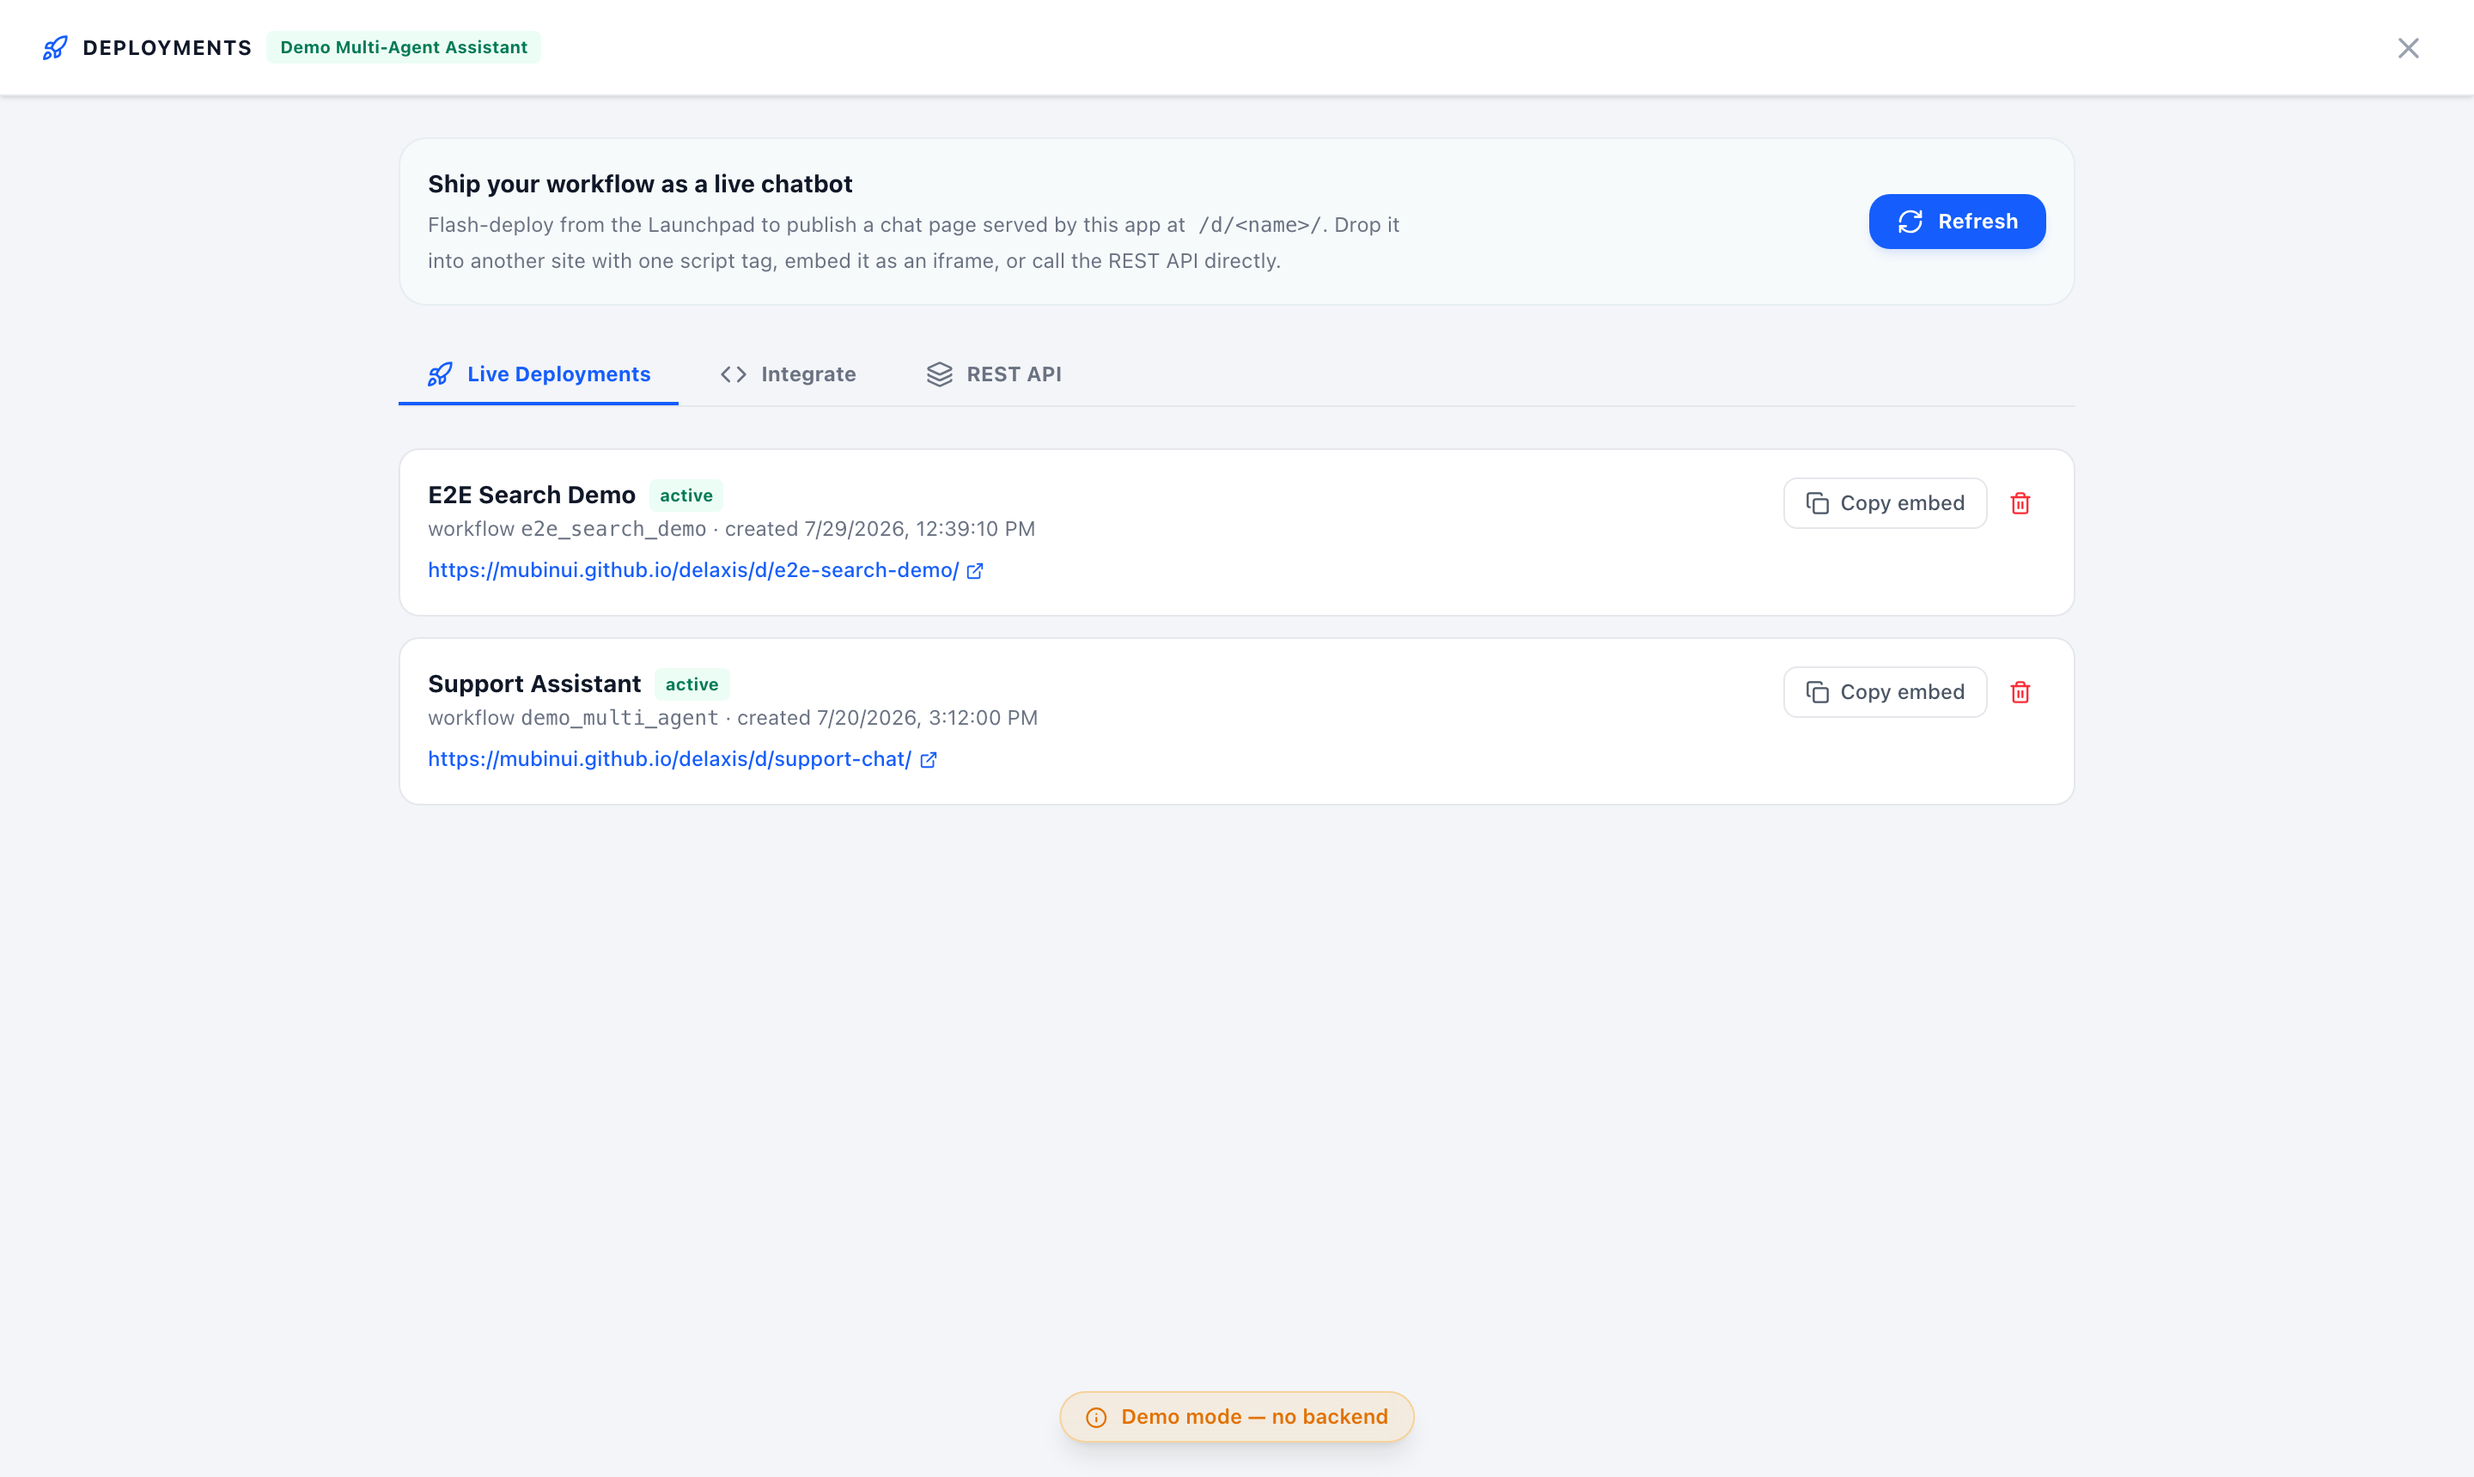
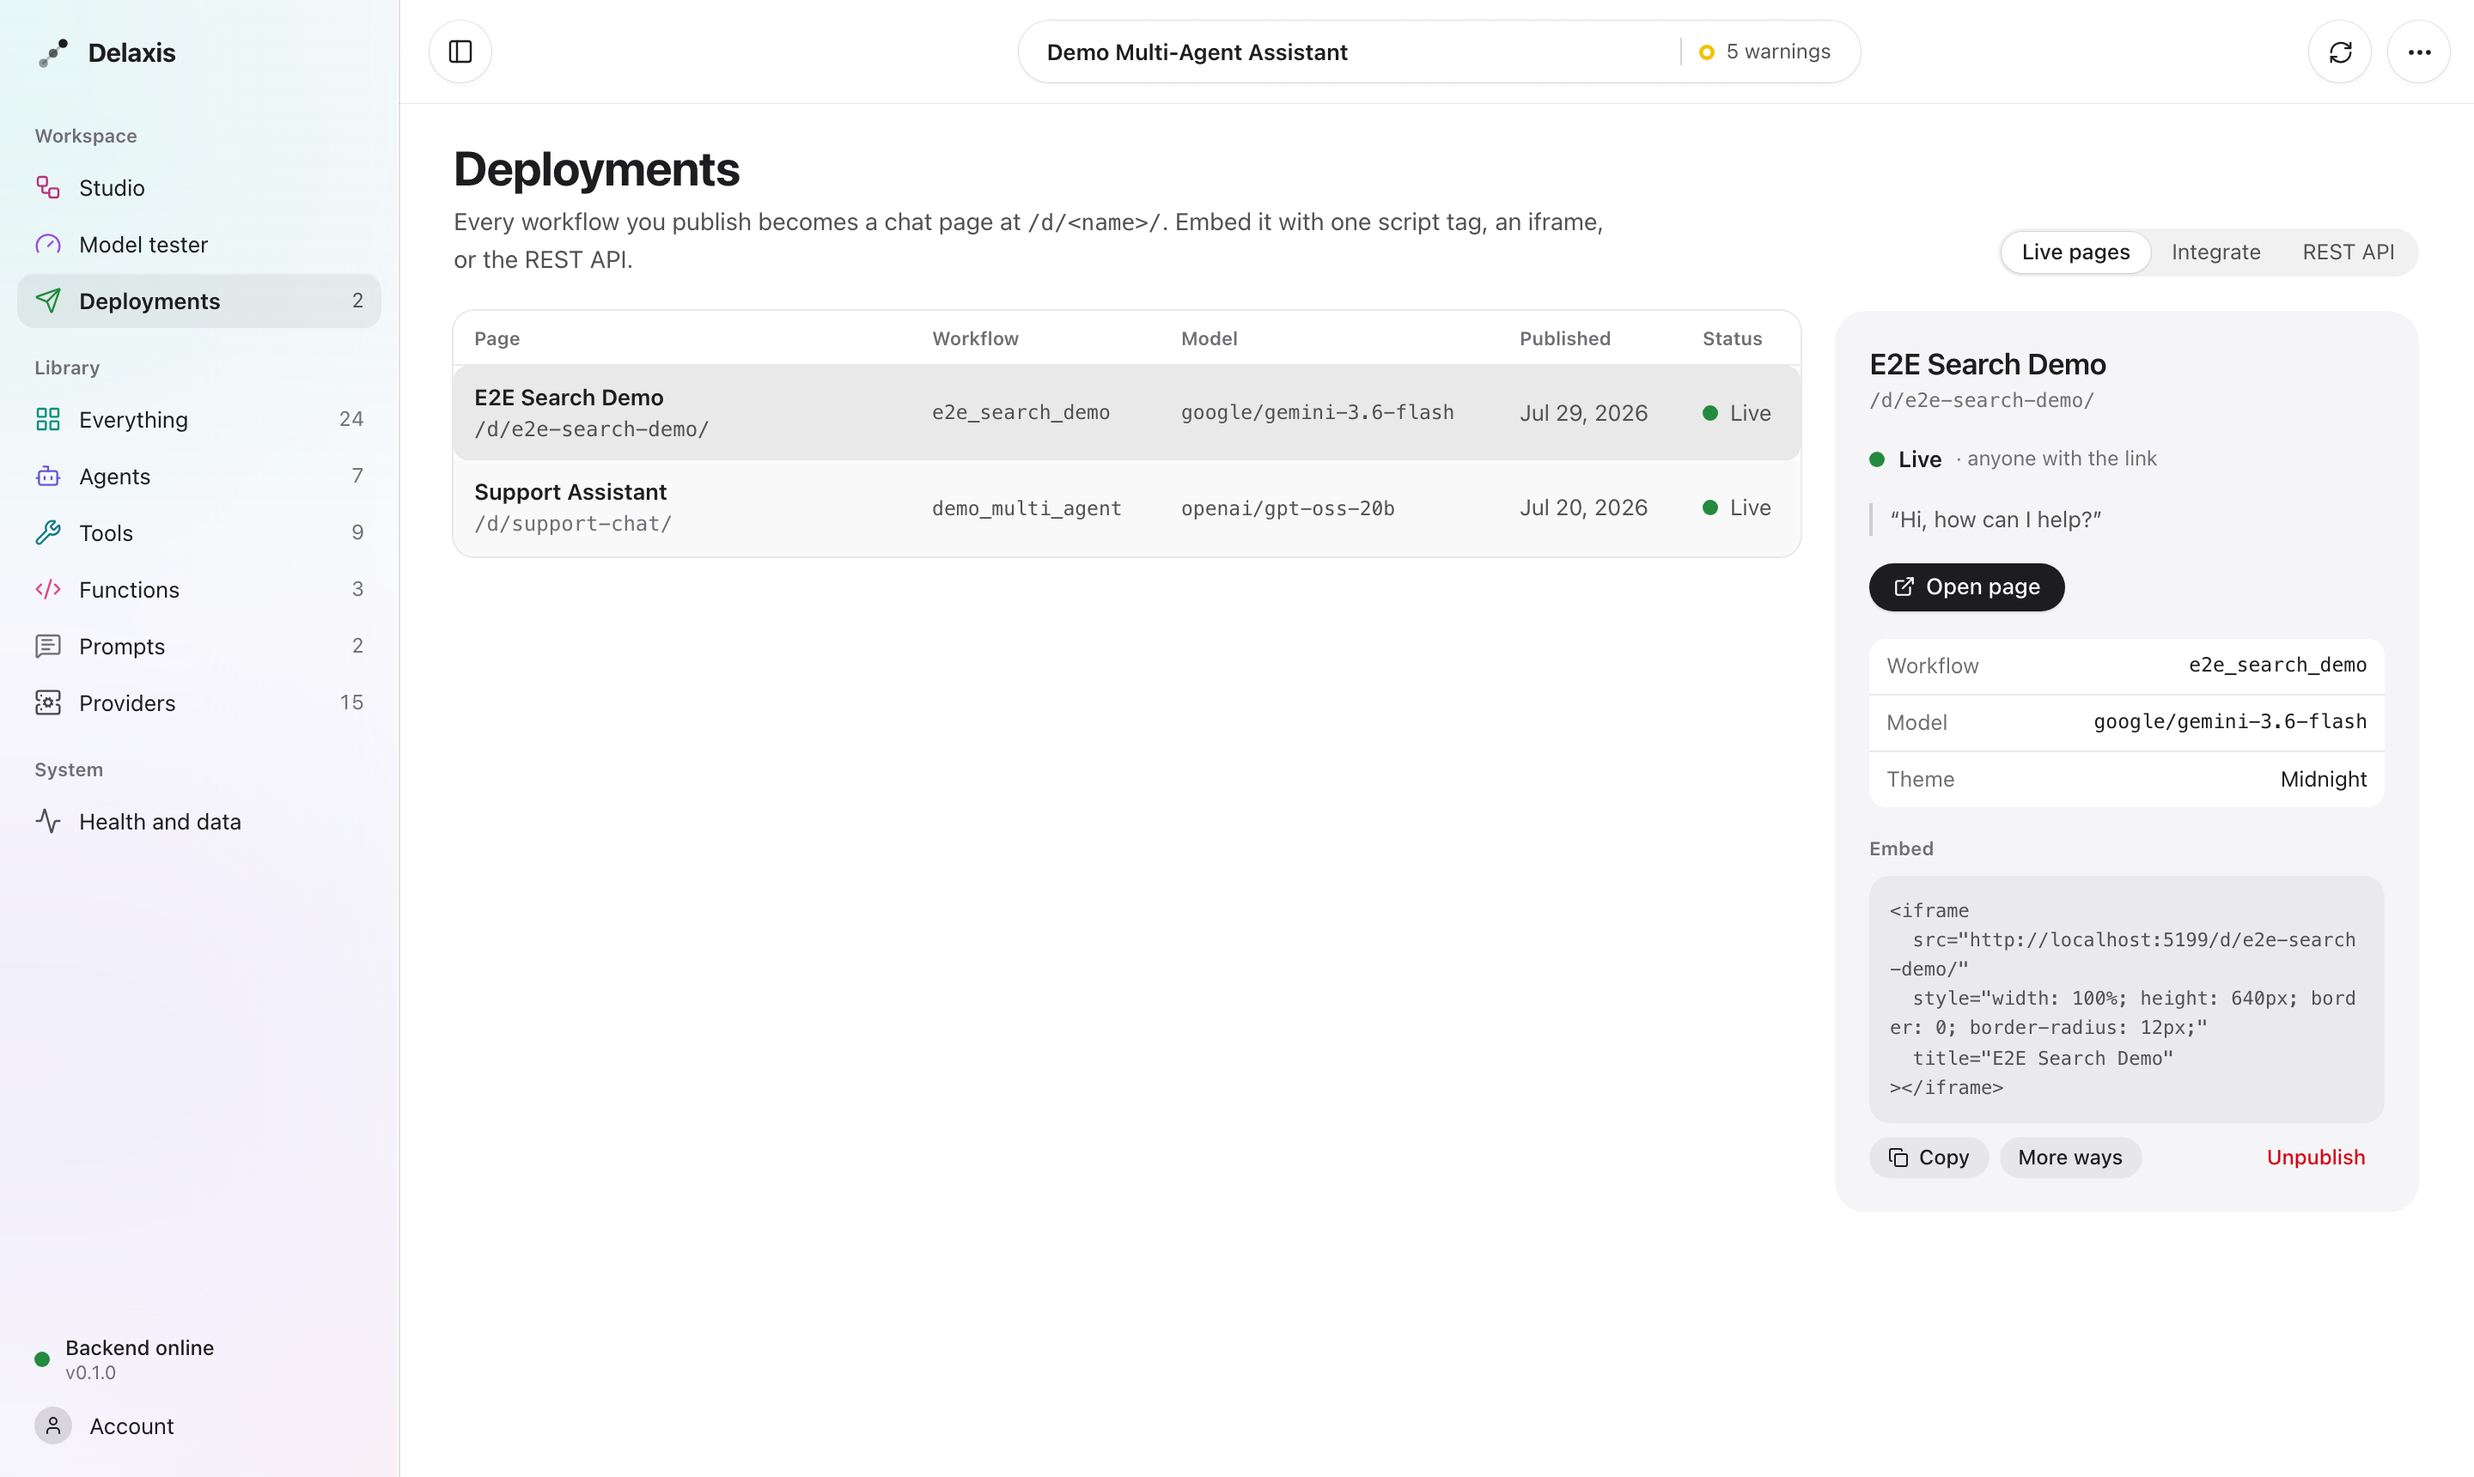
docs: show the redesigned Studio in the README
New screenshots of the canvas, the Model tester and Deployments, the
Graphite mark in the header, and the tester and Builder called by the
names the Studio now uses.

diff --git a/README.md b/README.md
@@ -3,8 +3,8 @@
 <!-- The mark inverts with the reader's GitHub theme, the same way the favicon
      and the Studio header do. -->
 <picture>
-  <source media="(prefers-color-scheme: dark)" srcset="workflow-editor/svg/delaxis-tile-paper-blue-dark.svg">
-  <img src="workflow-editor/svg/delaxis-tile-paper-blue-light.svg" alt="Delaxis" width="88" height="88">
+  <source media="(prefers-color-scheme: dark)" srcset="workflow-editor/svg/delaxis-tile-graphite-dark.svg">
+  <img src="workflow-editor/svg/delaxis-tile-graphite-light.svg" alt="Delaxis" width="88" height="88">
 </picture>
 
 # Delaxis
@@ -68,9 +68,9 @@ Everything is configuration-driven. Agents, workflows, tools, prompts, and provi
 
 ## Screenshots
 
-| Live LLM tester | Deployment hub |
+| Model tester | Deployments |
 |---|---|
-| ![Live LLM tester](docs/images/llm-tester.png) | ![Deployments](docs/images/deployments.png) |
+| ![Model tester](docs/images/llm-tester.png) | ![Deployments](docs/images/deployments.png) |
 
 Every screenshot above is from the [live demo](https://mubinui.github.io/delaxis/) — click through it yourself before installing anything.
 
@@ -232,7 +232,7 @@ The global `LLM_MODEL` is only the default. Each agent can override it in the St
 | `base_url` | Point this agent at a different OpenAI-compatible endpoint |
 | `api_key_env` | Name of an environment variable to read this agent's key from |
 
-Use the **Live API** tester in the Studio to verify a key, model, latency, and cost before wiring it into an agent.
+Use the **Model tester** in the Studio to verify a key, model, latency, and cost before wiring it into an agent.
 
 ## Live voice
 
@@ -240,7 +240,7 @@ You can talk to a chatbot instead of typing, powered by the **Gemini Live** real
 
 - the Studio's test panel — a mic next to Send, so you can hear a workflow before deploying it
 - the Studio's **Builder** — talk through what you want to build; see [The Builder](#the-builder)
-- a deployed page at `/d/<name>/` — enable **Live voice** in the Launchpad's Deploy tab
+- a deployed page at `/d/<name>/` — enable **Live voice** in the Builder's Deploy tab
 
 Setup is one key:
 
